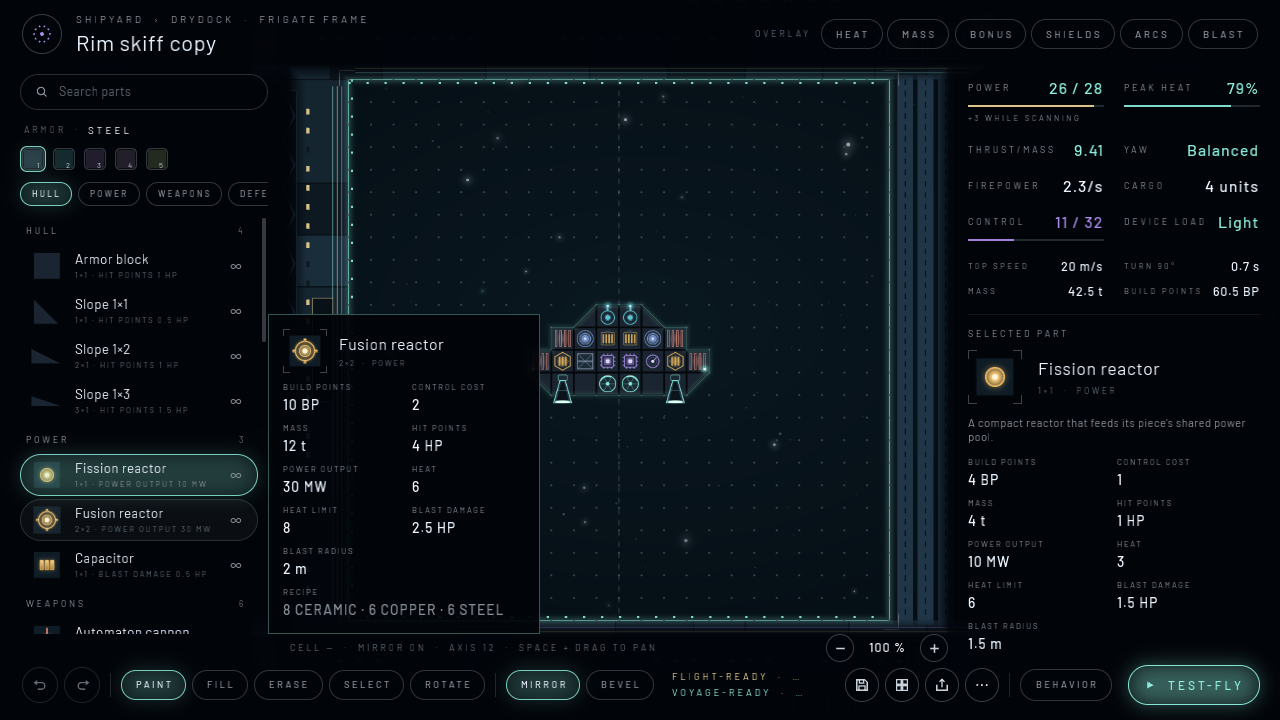
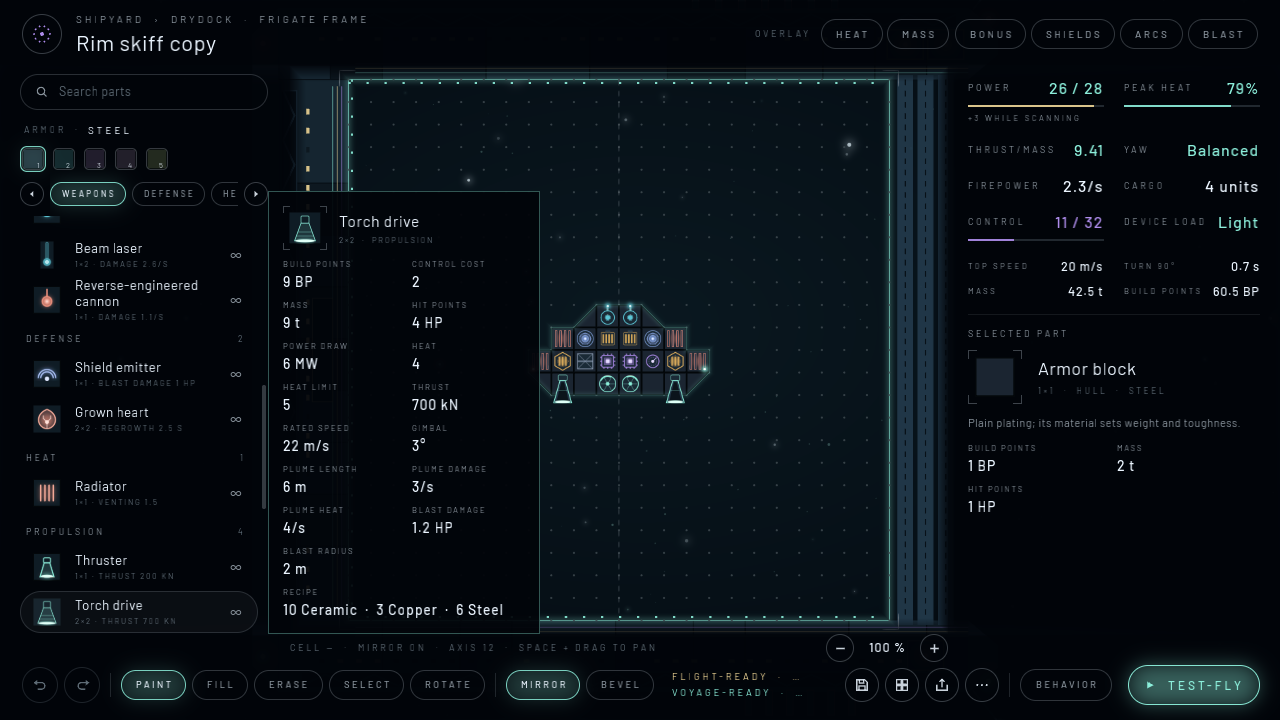
Docs: the hover card's safe room and compact fits, whole-text cuts, chip step rings (GDR-0082 status line of 18 Oct), screenshots

diff --git a/docs/client.md b/docs/client.md
@@ -1488,7 +1488,10 @@ palette's search and grouping, from one component.
   lowercase text the search looks in, `aside` for rows counted apart, the drydock's LOCKED). The kit filters by the
   search (display only, no respawn; another search starts at the top), counts the headings (`4  ·  2 LOCKED`), shows
   a chip while its group has rows, glides the list to a clicked chip's heading and lights the chip of the section in
-  view (`lit_group`), and scrolls the chips' line by wheel and drag. Rows that change keep their nodes: the drydock
+  view (`lit_group`), and scrolls the chips' line by wheel and drag; while the chips don't fit, a 24 px ring with a
+  small triangle at each end of the line steps it by 80 % of its width (dim at its end; `docs/results/drydock-chip-steps.png`).
+  Rows cut at a scrolled edge: their icons and outlines are cut at the edge, their texts go whole (a text across the
+  edge is not drawn, `scrollbar::cut_text`), so no line shows half its letters; this holds for every scrolling area. Rows that change keep their nodes: the drydock
   writes its rows' texts and icons in place (`panels::sync_rows`) and fills the list again only when the unlocks
   change; the workshop fills it after every action. Icons in the rows are cut where the area cuts them (`ui_icons`).
 - **`world::part_card`**: `part_info` is a part's information from content (name, `2×1  ·  WEAPONS`, or `LOCKED  ·
@@ -1500,8 +1503,15 @@ palette's search and grouping, from one component.
   at Barlow's widest capitals against the card's narrower column.
 - **The hover card**: a row with a `PartHover` (its part, its armour, what its stock counts against) shows the card
   after the pointer rests on it for `card.delay` (0.3 s; from a shown card's row to the next at once), beside the row
-  (`card.offset` right of it, left when the window has no room; level with it, inside the window and up and down the
-  row's list, so it never reaches the bars under or over the list, `card_position`). Icon in brackets, name, subtitle, the stat block, the gold bonus lines; a plate like `panel.*`
+  (`card.offset` right of it, left when the window has no room; level with it, `card_position`) inside a safe room:
+  the window inside `card.margin`, under the top bar (`Frame::below_top`: `frame.top + frame.ring + frame.gap`) and
+  down to the bottom of the row's list, which each screen ends above its bottom bars and status lines (the drydock's
+  grid info line and tools, the workshop's said line). A card that would run past the room's bottom moves up until
+  its bottom is there (Niklas, 18 Oct 2026: "it should not cover the bottom area"; it ran over the drydock's info
+  line). A part too tall for the room shows its stat rows `card.tight_gap` apart, then (if the wider card fits beside
+  the row) in three columns (`part_card::Fit`, `next_fit`; laid out a frame before it shows). Icon in brackets, name,
+  subtitle, the stat block (RECIPE in the value style, `10 Ceramic  ·  3 Copper  ·  6 Steel`, wrapping only between
+  entries; IN STOCK `3  ·  4 in the design`), the gold bonus lines; a plate like `panel.*`
   (`card.*` in the tokens). **Layering**: part icons are world meshes under bevy_ui, so the card's backing is a world
   mesh too (a filled `UiIcon::Scrim`) one icon layer up (`ui_icons::UiIconLayer(1)`: 2 world units over the screens'
   icons and scrims), its icon on the same layer, its words bevy_ui. It covers the icons under it and shows its own;
@@ -1509,7 +1519,9 @@ palette's search and grouping, from one component.
   workshop's room between its columns), never over a list's text.
 
 Screenshots (1280 × 720): `docs/results/drydock-stat-block.png` (SELECTED PART, a reactor's POWER OUTPUT and BLAST
-DAMAGE), `drydock-hover-card.png`, `workshop-list-card.png` (a search, the sections and a card).
+DAMAGE), `drydock-hover-card.png` (the tallest card, the torch drive, on the list's bottom row: it ends with the
+list, above the info line), `drydock-hover-card-top.png` (the same on the top row), `workshop-list-card.png` (the
+thruster near the list's bottom).
 
 ## Screen transitions
 

diff --git a/docs/gdr/0082-drydock-layout-v2-and-part-availability.md b/docs/gdr/0082-drydock-layout-v2-and-part-availability.md
@@ -8,6 +8,10 @@
   (icon, name, size and category, the same stat block with the recipe, the bonuses). The left column is the kit's
   grouped list, shared with the workshop (search, chips, sections unchanged). `docs/client.md` "Part lists and the
   hover card".
+  2026-10-18, late (Niklas: the card "should not cover the bottom area"): the hover card stays between the top bar and
+  the bottom of the list (moved up to end there; closer rows, then three columns for a part too tall for that room);
+  RECIPE reads like the other values; a list's texts cut by its scrolled edge go whole; the category chips get a
+  small step ring at each end while they don't fit.
 - Date: 2026-10-14
 - Decided by: Niklas (in chat and interactively, with the draft `docs/plans/mockups/drydock-left-column.html`)
 - Related: [GDR-0051](0051-drydock-v1.md), [GDR-0053](0053-drydock-v1-lead-defaults.md), [GDR-0063](0063-salvage-and-research-v1.md), [GDR-0029](0029-mild-death-bonded-matter.md), [GDR-0031](0031-materials-and-fabrication.md), [GDR-0081](0081-drydock-editing-bevel-rotate-replace.md), `docs/drydock.md`
